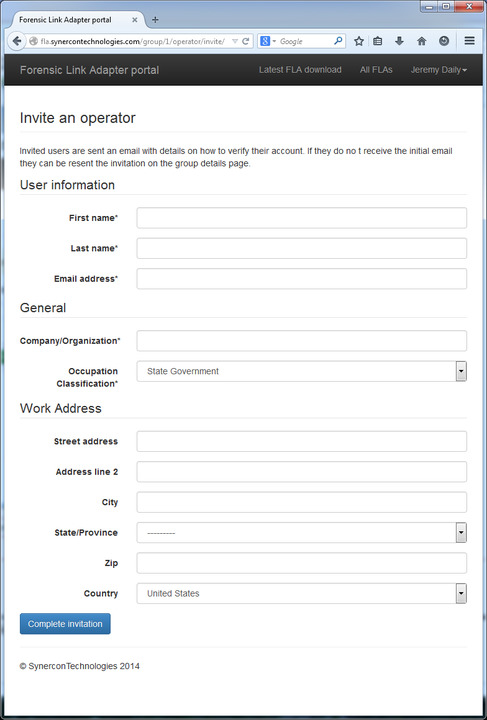
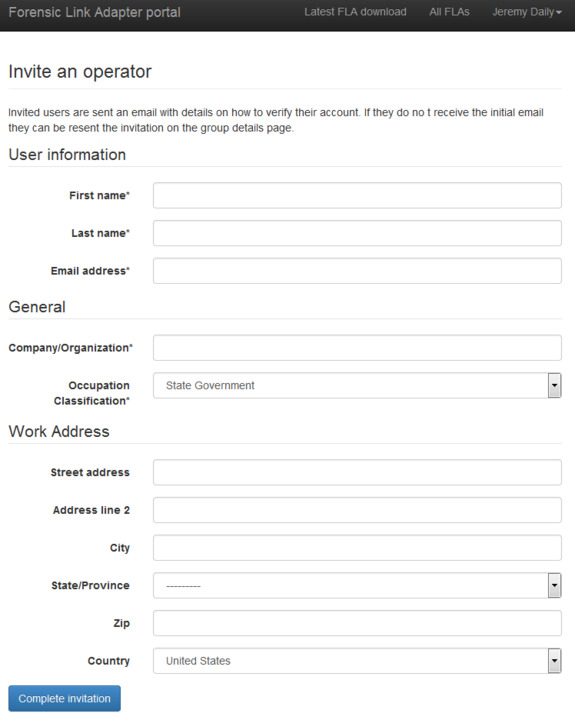
Everything assigned to Gavin except redoing section 5

diff --git a/user_manual/FLA Users Manual.tex b/user_manual/FLA Users Manual.tex
@@ -333,6 +333,81 @@ The working screens will not have an option on the last line, but usually a perc
 \end{minipage}\\
 
 
+\section{Installing PC Software}
+
+\subsection{RP 1210 Drivers}
+
+The FLA can operate as an RP1210 device. This is used for connecting
+OEM software to ECMs. A computer does not need the RP 1210 drivers
+to access the FLA Preview, and the FLA Portal. You will need administrative
+privileges to install these drivers.
+
+To install the RP1210 Drivers, follow these steps
+\begin{enumerate}
+\item Connect to the FLA Preview described in the above section (Either In-Field,
+or In-Office methods will work)
+\item Select the Download Drivers option from the menu at the top of the
+web page
+\item Select ``Download Drivers''
+\item Once the file is downloaded, extract the .zip file to a folder
+\item Open the folder, and double-click ``DPA4Plus\_RP1210.exe''
+\item Follow the on-screen instructions to install the drivers
+\end{enumerate}
+After the drivers are installed, they can be tested with the following
+steps
+\begin{enumerate}
+\item Make sure the FLA is powered on, and connected to an ECM (It is possible
+to test the drivers without a live ECM, to do so see the special instructions)
+
+\begin{enumerate}
+\item Skip steps 2,3,and 4 if not connected to a live ECM
+\item Begin a scan on the vehicle
+\item After the scan has completed and you see the "Enable
+RP1210 Mode" screen
+\item Confirm the top line of the FLA read "CAN/J1939 Pass
+Mode."
+\item Search on your computer for the program "Adapter Validation
+Tool" and run it
+\item Select "MD/HD"
+\item Set the Vendor to "DG1210xx - Dearborn Group RP1210"
+(the xx will likely be 32)
+\item Set the Device to "DG DPA 4 Plus USB"
+\end{enumerate}
+
+\begin{enumerate}
+\item Skip to step 14 if the ECM does not support J1939
+\end{enumerate}
+\item Set Protocol to "J1939"
+\item plug the USB cable into the FLA and the computer
+\item Click "Run Test"
+\item The text boxes labeled "RP1210 Status Window (PC-VDA)"
+and "RP1210 Data Message Window (VDA-Vehicle)"
+should turn green
+
+\begin{enumerate}
+\item If you are not connected to a live ECM, the "RP1210
+Data Message Window" will turn red as there are no messages
+\end{enumerate}
+\item A text box will appear and will describe the results of the test.
+\item Click "Quit" on the pop-up window titled
+"Test Results Discussion"
+
+\begin{enumerate}
+\item If the ECM does not support J1708, the test is complete.If it does,
+continue
+\end{enumerate}\label{enu:J1708-pass-mode}
+\item Change the protocol to J1708
+\item On the FLA click the Green button to enable J1708 passthrough
+\item Confirm the top line of the FLA read "J1708 Pass Mode
+for"
+\item Click "Run Test"
+\item A text box will appear and will describe the results of the test
+\item Click "Quit" on the pop-up window titled
+"Test Results Discussion"
+\item Close out of the adapter validation test
+\end{enumerate}
+
+
 \section{Familiarize yourself with the FLA}
 \paragraph{  }
 After the operator has performed these steps, the FLA is ready for
@@ -980,14 +1055,17 @@ Portal to manage FLAs, and users.
 \paragraph{  }
 The FLA Portal is accessed by navigating to \href{https://fla.synercontechnologies.com/}{https://fla.synercontechnologies.com/}
 in a supported web browser. For a list of supported web browsers, refer to section \ref{sec:supported_browsers}.
-\paragraph{  }
-The FLA Portal will require the operator to login, using the username and password used when the operator created the account. Note that BOTH username and password are case-sensitive.
-\begin{center}
-\includegraphics[width=0.8\textwidth]{../media/fla_portal_screenshots/login_screen}
-\end{center}
 
+\noindent\begin{minipage}{0.45\textwidth}% adapt widths of minipages to your needs 
+	\paragraph{  }
+The FLA Portal will require the operator to login, using the username and password used when the operator created the account. Note that BOTH username and password are case-sensitive.
 Once logged in, the operator will be able to view data acquired from
 the assigned FLA.
+\end{minipage}% 
+\hfill% 
+\begin{minipage}{0.45\textwidth} 
+\includegraphics[width=0.8\textwidth]{../media/fla_portal_screenshots/login_screen}
+\end{minipage}
 
 
 \section{Using the FLA Portal}
@@ -1016,7 +1094,7 @@ This section contains any components that responded to a component
 Identification request. The VIN, Vehicle Odometer, and Engine Hours
 will also be displayed under Engine \#1 for the appropriate network.
 This section also contains the time records from the download, including vehicle time
-if available, and time of the last GPS Lock.
+if available, and time of the last GPS Lock. All time records are adjusted to the timezone indicated.
 
 \begin{center}
 \includegraphics[width=0.9\textwidth]{../media/fla_portal_screenshots/full_report/vehicle_info}
@@ -1681,21 +1759,29 @@ administrator. For example, the Lieutenant in charge of the crash
 reconstruction division will become the site administrator once he
 or she registers by following the link sent in the invitation e-mail.
 
-\begin{figure}[h]
-\includegraphics[width=.8\textwidth]{../media/fla_portal_screenshots/FLAPortalAccountOverviewScreenShot}
-
-\caption{\label{fig:Example-FLA-Account-overview}Example Forensic Link Adapter
-Portal web page for the Account overview}
-\end{figure}
-
-
+\noindent\begin{minipage}{0.45\textwidth}% adapt widths of minipages to your needs 
 Once logged in as a Site Administrator, an account overview page will
-be available, much like the one shown in Figure \ref{fig:Example-FLA-Account-overview}.
+be available, much like the one shown to the right.
 Many of the fields on the web page are linked to various functions.
 The top bar (in black) has links to your default login page, the latest
 FLA download if you are an operator, a list of all the organizations,
 FLAs, and some account access settings. The web page is set up in
-three distinct tables as seen in Figure \ref{fig:Example-FLA-Account-overview}.
+three distinct tables as seen to the right.
+\end{minipage}% 
+\hfill% 
+\begin{minipage}{0.50\textwidth} 
+	% \includegraphics[width=\linewidth]{../media/fla_screens/ethernet_and_others/main/title_both}
+	\includegraphics[width=.8\textwidth]{../media/fla_portal_screenshots/FLAPortalAccountOverviewScreenShot}
+\end{minipage}
+
+% \begin{figure}[h]
+% \includegraphics[width=.8\textwidth]{../media/fla_portal_screenshots/FLAPortalAccountOverviewScreenShot}
+
+% \caption{\label{fig:Example-FLA-Account-overview}Example Forensic Link Adapter
+% Portal web page for the Account overview}
+% \end{figure}
+
+
 \begin{enumerate}
 \item Organization Groups
 \item FLA Operators
@@ -1709,24 +1795,19 @@ up groups and operators according to the desired structure of the
 Organization. You can have operators that have access to more than
 one group.
 
-\begin{figure}[h]
-\includegraphics[width=.8\textwidth]{../media/fla_portal_screenshots/FLAPortalFieldOperatorsScreenShot}
-
-\caption{\label{fig:Example-Group-Details}Example Group Details web page from
-the Forensic Link Adapter Portal.}
-\end{figure}
 
 
 
 \subsection{Adding an Operator}
 
+\noindent\begin{minipage}{0.45\textwidth}% adapt widths of minipages to your needs 
 There are two ways to get an operator access to the group's FLAs.
 The first is to invite a new operator and the second is to invite
 an existing operator. However, the existing operator must have accepted
 an invitation from the Organization under a unique e-mail address.
 By clicking on the lower left box the says \textsf{Invite new operator}
-shown in \ref{fig:Example-Group-Details}, a web page similar to
-the one shown in \ref{fig:New-Operator-invitation}. The required
+shown on top to the right, a web page similar to
+the one shown on bottom to the right. The required
 user information includes name and email address. The FLA portal uses
 e-mail addresses to identify operators. Therefore, if a person belongs
 to different organizations, they would have to use a different e-mail
@@ -1736,15 +1817,13 @@ be filtered as junk, so advising the recipient to check their e-mail
 filters and junk folder may be necessary.
 
 The Work Address details on the Invite and operator page are used
-to fill in a report with 
-
-\begin{figure}[h]
-\includegraphics[height=.6\linewidth]{../media/fla_portal_screenshots/FLAPortalInviteNewOperatorScreenShot}
-
-\caption{\label{fig:New-Operator-invitation}New Operator invitation form on
-the FLA portal website.}
-\end{figure}
-
+to fill in a report with TODO...
+\end{minipage}% 
+\hfill% 
+\begin{minipage}{0.45\textwidth}
+    \includegraphics[width=.8\textwidth]{../media/fla_portal_screenshots/FLAPortalFieldOperatorsScreenShot}\\[\baselineskip]
+    \includegraphics[height=1\linewidth]{../media/fla_portal_screenshots/FLAPortalInviteNewOperatorScreenShot}
+\end{minipage}
 
 
 \subsection{Assigning an FLA to the Group}
@@ -1753,13 +1832,6 @@ Each group needs to have at least one Forensic Link Adapter assigned
 to it. To assign an FLA to a group, click the button to see a list
 of available FLAs for your organization. Only people in the group
 can see the data on the FLA assigned to that group
-
-\begin{figure}[h]
-\includegraphics[width=1\textwidth]{../media/fla_portal_screenshots/FLAPortalAssignedFLASuccessScreenShot}
-
-\caption{Assigned FLAs}
-\end{figure}
-
 
 
 \chapter{Suggested Practices}
@@ -1802,106 +1874,6 @@ display a message indicating the work is finished.
 button to return the FLA to normal operational mode.
 \end{enumerate}
 
-\section{Installing PC Software}
-
-
-\subsection{RP 1210 Drivers}
-
-The FLA can operate as an RP1210 device. This is used for connecting
-OEM software to ECMs. A computer does not need the RP 1210 drivers
-to access the FLA Preview, and the FLA Portal. You will need administrative
-privileges to install these drivers.
-
-To install the RP1210 Drivers, follow these steps
-\begin{enumerate}
-\item Connect to the FLA Preview described in the above section (Either In-Field,
-or In-Office methods will work)
-\item Select the Download Drivers option from the menu at the top of the
-web page
-\item Select ``Download Drivers''
-\item Once the file is downloaded, extract the .zip file to a folder
-\item Open the folder, and double-click ``DPA4Plus\_RP1210.exe''
-\item Follow the on-screen instructions to install the drivers
-\end{enumerate}
-After the drivers are installed, they can be tested with the following
-steps
-\begin{enumerate}
-\item Make sure the FLA is powered on, and connected to an ECM (It is possible
-to test the drivers without a live ECM, to do so see the special instructions)
-
-\begin{enumerate}
-\item Skip steps 2,3,and 4 if not connected to a live ECM
-\item Begin a scan on the vehicle
-\item After the scan has completed and you see the "Enable
-RP1210 Mode" screen
-\item Confirm the top line of the FLA read "CAN/J1939 Pass
-Mode."
-\item Search on your computer for the program "Adapter Validation
-Tool" and run it
-\item Select "MD/HD"
-\item Set the Vendor to "DG1210xx - Dearborn Group RP1210"
-(the xx will likely be 32)
-\item Set the Device to "DG DPA 4 Plus USB"
-\end{enumerate}
-
-\begin{enumerate}
-\item Skip to step 14 if the ECM does not support J1939
-\end{enumerate}
-\item Set Protocol to "J1939"
-\item plug the USB cable into the FLA and the computer
-\item Click "Run Test"
-\item The text boxes labeled "RP1210 Status Window (PC-VDA)"
-and "RP1210 Data Message Window (VDA-Vehicle)"
-should turn green
-
-\begin{enumerate}
-\item If you are not connected to a live ECM, the "RP1210
-Data Message Window" will turn red as there are no messages
-\end{enumerate}
-\item A text box will appear and will describe the results of the test.
-\item Click "Quit" on the pop-up window titled
-"Test Results Discussion"
-
-\begin{enumerate}
-\item If the ECM does not support J1708, the test is complete.If it does,
-continue
-\end{enumerate}\label{enu:J1708-pass-mode}
-\item Change the protocol to J1708
-\item On the FLA click the Green button to enable J1708 passthrough
-\item Confirm the top line of the FLA read "J1708 Pass Mode
-for"
-\item Click "Run Test"
-\item A text box will appear and will describe the results of the test
-\item Click "Quit" on the pop-up window titled
-"Test Results Discussion"
-\item Close out of the adapter validation test
-\end{enumerate}
-
-\section{Performing a download on a Heavy Vehicle}
-
-This section provides a very high level overview of a typical download.
-\begin{enumerate}
-\item Plug in the FLA to the 9-Pin Diagnostics Connector
-\item Turn on the ignition key to run
-\item Run a vehicle Scan
-\item Download Supported Data (if available)
-\item Enable RP1210 Mode (Optional depending on the ECM and user's procedure)
-
-\begin{enumerate}
-\item Connect the USB Cable
-\item Run OEM Software
-\end{enumerate}
-\item Verify the data collected via the FLA Preview
-
-\begin{enumerate}
-\item If desired, repeat steps 3-6 until satisfied
-\end{enumerate}
-\item Shutdown the FLA
-\item Reach a location that has a working Ethernet port
-\item Connect the FLA to the Internet
-\item Upload the data from the field
-\item View the full report on the FLA Portal
-\end{enumerate}
 
 \section{Connecting to Engine Control Modules on a Bench}
 
@@ -2199,7 +2171,7 @@ If you need to extend an extending an FLA subscription, or are interested in pur
 \paragraph{  }
 While we strive to provide the highest quality products, if you have
 an issue with our products and need to contact us, please send an
-email to \textbackslash{}email\{support@synercontechnologies.com\}.
+email to \href{mailto:support@synercontechnologies.com}{\nolinkurl{support@synercontechnologies.com}}.
 
 When requesting support, please include the following:
 
